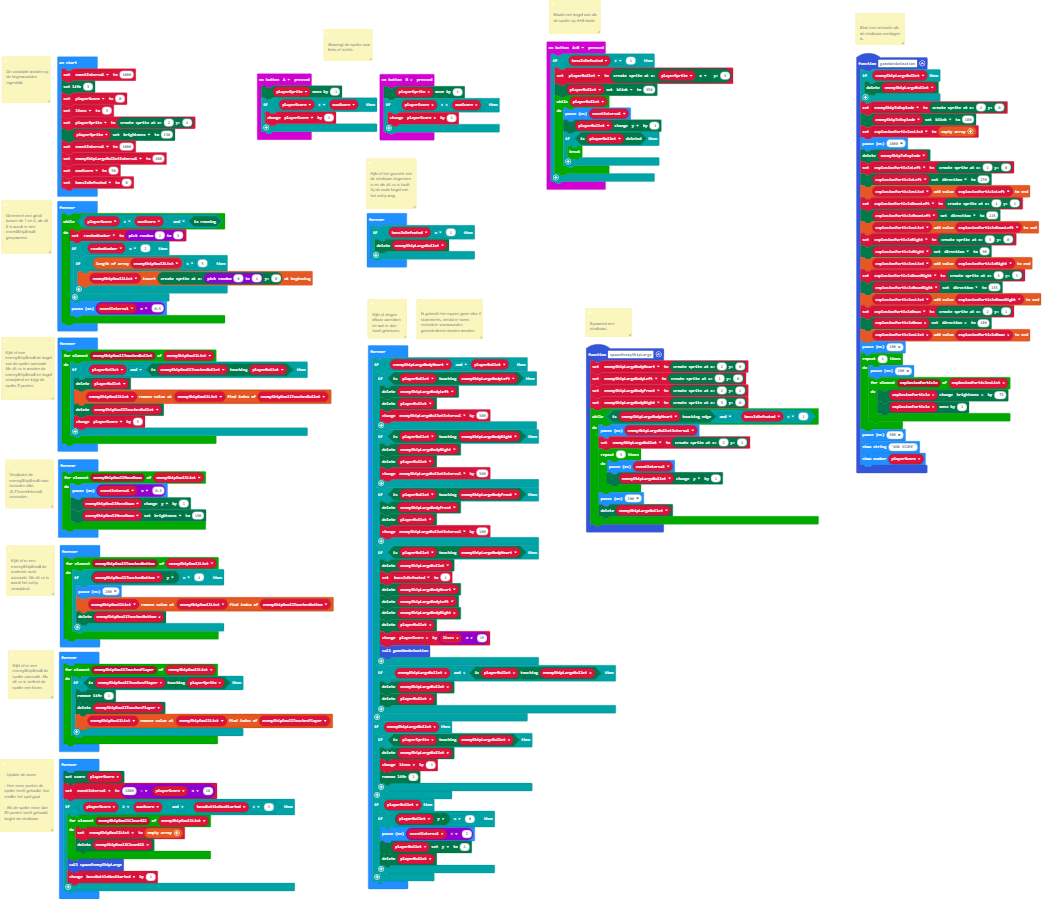
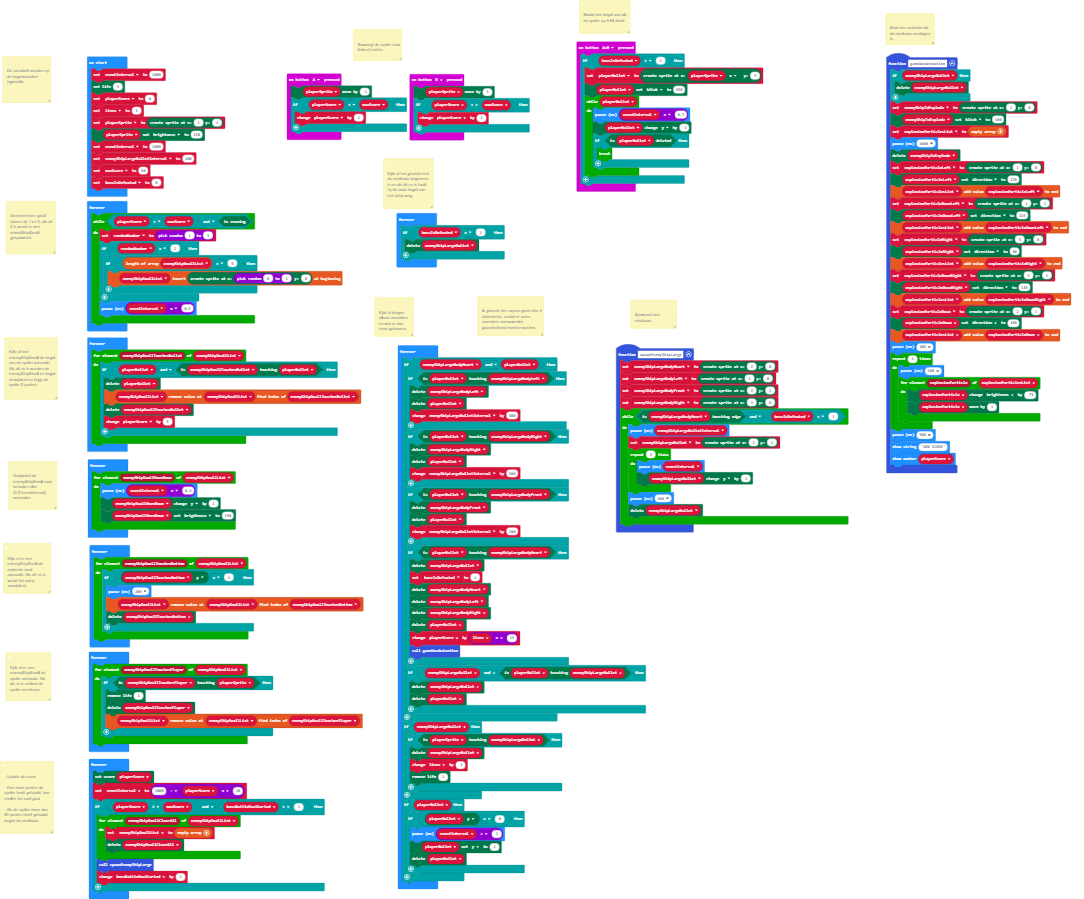
Updated comment position so they no longer overlap

diff --git a/main.ts b/main.ts
@@ -20,6 +20,12 @@
  * Spawned een eindbaas.
  */
 /**
+ * Kijkt of een enemyShipSmall de kogel van de speler aanraakt. Als dit zo is worden de enemyShipSmall en kogel verwijderd en krijgt de speler 5 punten.
+ */
+/**
+ * Verplaatst de enemyShipSmall naar beneden elke (0.3*eventInterval) seconden.
+ */
+/**
  * Kijkt of er een enemyShipSmall de onderste rand aanraakt. Als dit zo is wordt het schip verwijderd.
  */
 /**
@@ -95,7 +101,7 @@ input.onButtonPressed(Button.AB, function () {
         playerBullet = game.createSprite(playerSprite.get(LedSpriteProperty.X), 3)
         playerBullet.set(LedSpriteProperty.Blink, 350)
         while (playerBullet) {
-            basic.pause(eventInterval)
+            basic.pause(eventInterval * 0.7)
             playerBullet.change(LedSpriteProperty.Y, -1)
             if (playerBullet.isDeleted()) {
                 break;
@@ -144,6 +150,9 @@ bossIsDefeated = 0
 /**
  * Kijkt of het gevecht met de eindbaas begonnen is en als dit zo is haalt hij de oude kogel van het schip weg.
  */
+/**
+ * Kijkt of dingen elkaar aanraken en wat er dan moet gebeuren.
+ */
 basic.forever(function () {
     while (playerScore < maxScore && game.isRunning()) {
         randomNumber = randint(1, 3)
@@ -160,12 +169,6 @@ basic.forever(function () {
         enemyShipLargeBullet.delete()
     }
 })
-/**
- * Kijkt of dingen elkaar aanraken en wat er dan moet gebeuren.
- */
-/**
- * Kijkt of een enemyShipSmall de kogel van de speler aanraakt. Als dit zo is worden de enemyShipSmall en kogel verwijderd en krijgt de speler 5 punten.
- */
 basic.forever(function () {
     for (let enemyShipSmallTouchesBullet of enemyShipSmallList) {
         if (playerBullet && enemyShipSmallTouchesBullet.isTouching(playerBullet)) {
@@ -223,9 +226,6 @@ basic.forever(function () {
         }
     }
 })
-/**
- * Verplaatst de enemyShipSmall naar beneden elke (0.3*eventInterval) seconden.
- */
 basic.forever(function () {
     for (let enemyShipSmallMoveDown of enemyShipSmallList) {
         basic.pause(eventInterval * 0.3)
